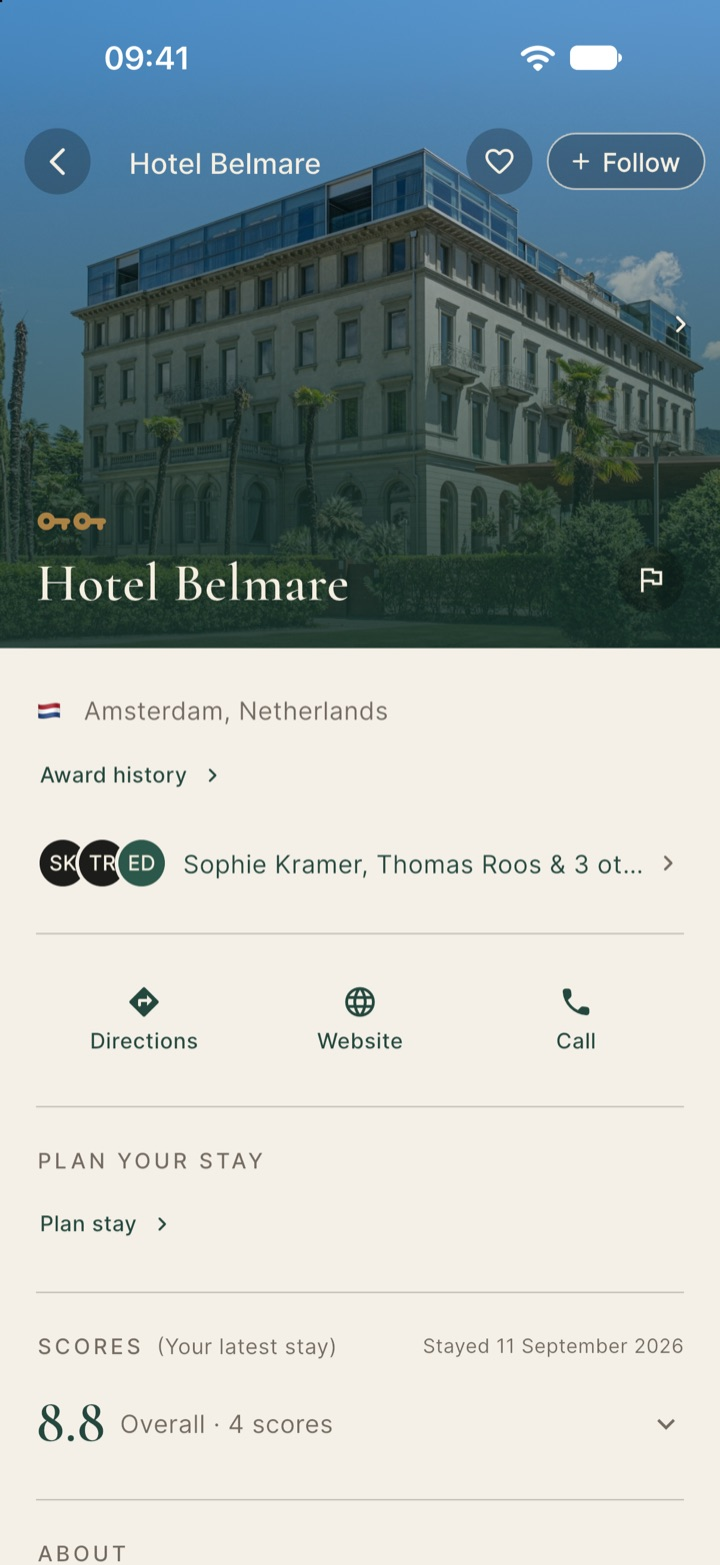
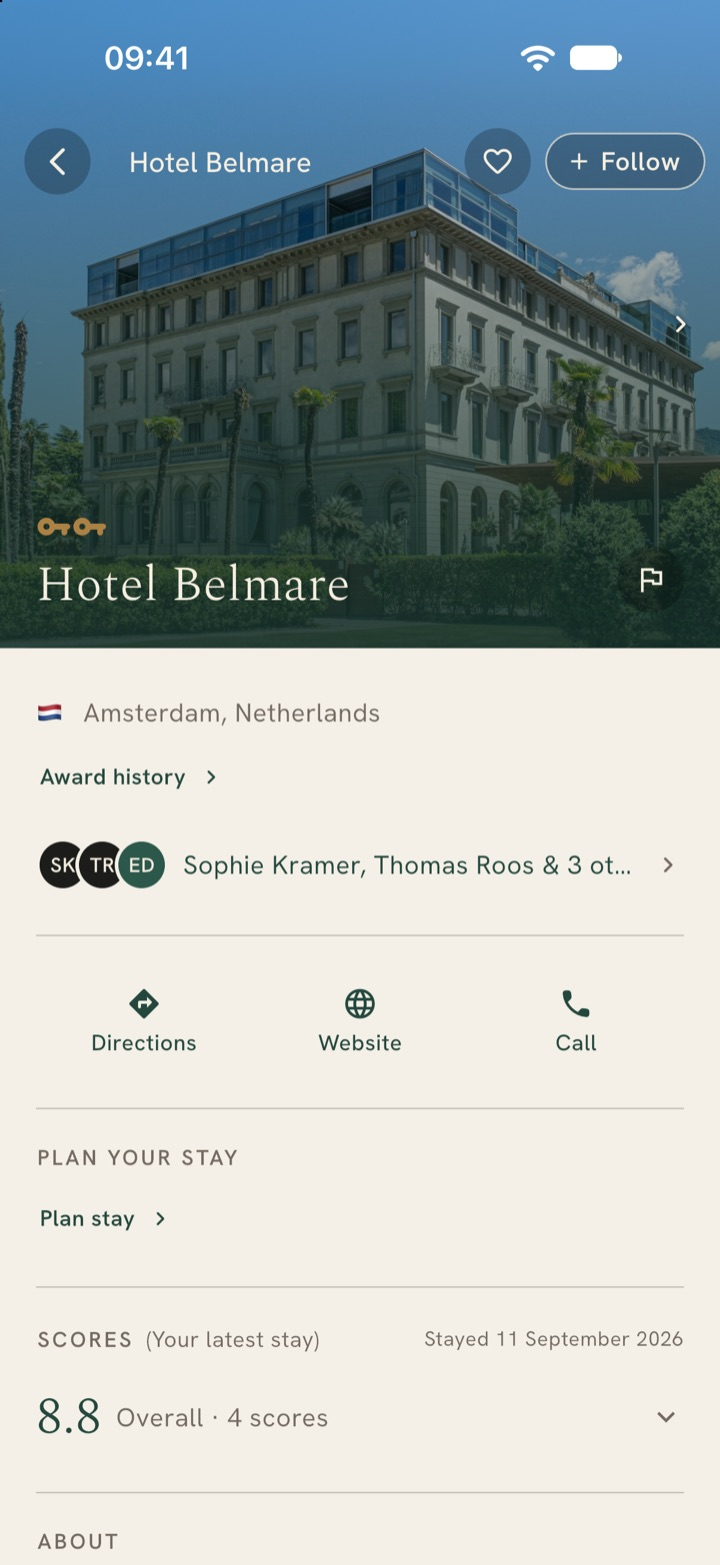
Fresh lookbook and venue guide screens from 1.7.1
All 29 screenshots captured again on the simulator against the local
lookbook seed, in the new typefaces and with the new stamp designs. The
seed now also sets up the venue manager and the event in review the
venue guide shows. Changelog entry for this and the typeface change.

diff --git a/site-next/public/lookbook.html b/site-next/public/lookbook.html
@@ -229,7 +229,7 @@
     </div>
     <div class="phones">
       <figure><img class="phone" src="lookbook/09_passport.jpg" width="720" height="1565" loading="lazy" alt="Leather passport cover with the Mantelier mark"><figcaption>The Passport.</figcaption></figure>
-      <figure><img class="phone" src="lookbook/15_stamps.jpg" width="720" height="1565" loading="lazy" alt="Passport page with three overlapping venue stamps"><figcaption>A stamp for each place.</figcaption></figure>
+      <figure><img class="phone" src="lookbook/15_stamps.jpg" width="720" height="1565" loading="lazy" alt="Passport page with four venue stamps in different designs"><figcaption>A stamp for each place.</figcaption></figure>
       <figure><img class="phone" src="lookbook/11_ranking.jpg" width="720" height="1565" loading="lazy" alt="A member's personal ranking of restaurants with photos and scores"><figcaption>A member's own ranking.</figcaption></figure>
     </div>
   </div>

diff --git a/scripts/seed_lookbook.py b/scripts/seed_lookbook.py
@@ -82,5 +82,11 @@ o.append(f"insert into public.news_articles(id,title,body,image_url,status,publi
 o.append(f"insert into public.planned_trips(id,user_id,title,start_date,end_date,country_code,city) values('dddddddd-0000-0000-0000-000000000001','{uid}','A weekend in Amsterdam','2026-12-04','2026-12-07','NL','Amsterdam');")
 o.append(f"insert into public.planned_venues(user_id,entity_type,entity_id,trip_id,start_date) values('{uid}','hotel','{u('b1')}','dddddddd-0000-0000-0000-000000000001','2026-12-04'),('{uid}','restaurant','{u('a1')}','dddddddd-0000-0000-0000-000000000001','2026-12-05');")
 o.append(f"update public.planned_trip_destinations set city_id='{c['ams']}' where trip_id='dddddddd-0000-0000-0000-000000000001';")
+# The venue guide's manager screens (2026-11-21): the member manages Maison
+# Aurelle through an approved claim, and has one event of their own in review.
+o.append(f"insert into public.claims_restaurants(id,user_id,restaurant_id,status,reviewed_at,role,business_email,phone) values('ffffffff-0000-0000-0000-000000000001','{uid}','{u('a1')}','approved',now(),'owner','lena@maison-aurelle.example','+31 20 000 0000');")
+o.append(f"insert into public.venue_managers_restaurants(user_id,restaurant_id,claim_id) values('{uid}','{u('a1')}','ffffffff-0000-0000-0000-000000000001');")
+o.append(f"insert into public.events(id,name,description,event_type,status,moderation_status,country_code,city,timezone,start_date,end_date,start_time,end_time,submitted_by,submitted_at,admission_type,announcement_status) values('eeeeeeee-0000-0000-0000-000000000009','Grower Champagne night with Daan Hofman',{q('Six small grower houses, poured by our sommelier, with a menu built around them.')},'dinner','upcoming','submitted','NL','Amsterdam','Europe/Amsterdam','2027-03-06','2027-03-06','19:00','22:30','{uid}',now(),'paid','official');")
+o.append(f"insert into public.event_restaurants(event_id,restaurant_id,is_host,is_venue) values('eeeeeeee-0000-0000-0000-000000000009','{u('a1')}',true,true);")
 o.append("commit;")
 print("\n".join(o))

diff --git a/docs/Plannnig/CHANGELOG.md b/docs/Plannnig/CHANGELOG.md
@@ -9,6 +9,12 @@ The format follows Keep a Changelog.
 ## Unreleased
 
 ### Changed
+- **The site in the app's typefaces, and fresh screens in the lookbook and venue guide** (product owner, 2026-11-21, after the new site went live: "Oke kunnen dat wat openstaat nu oppakken?"). Both were left open when mantelier.app moved to `site-next/`. Branch `claude/website-update-790380`; not merged, so not live: merging into `main` publishes it.
+  - **Typefaces:** Spectral and Hanken Grotesk on every page, the static ones in `site-next/public/` included, in place of Cormorant Garamond and IBM Plex Sans and Mono, as the app did in 1.6.1. The letter-spaced labels that were IBM Plex Mono are Hanken Grotesk too, since the app has no monospace face.
+  - **Screens:** all 17 lookbook and 12 venue guide screenshots captured again from 1.7.1 (38) on an iPhone 18 Pro simulator against a local stack loaded with `scripts/seed_lookbook.py`, same frames and same invented venues as before, so they show the new typefaces, the four new stamp designs and Cellar in the Passport tabs. The stamp picture's alt text now says four stamps in different designs. Two screenshots no page used (`lookbook/10_passport_page.jpg`, `venue-guide/03_claim_details.jpg`) are removed.
+  - `scripts/seed_lookbook.py` now also makes the member the manager of Maison Aurelle (an approved claim plus the `venue_managers_restaurants` row) and gives them one event in review, which the venue guide's manager screens need and which had been set up by hand last time. Run on a freshly reset local stack: one manager row, one submitted event, four restaurants. `docs/Design/LOOKBOOK.md` names the new paths and the capture.
+  - **Near miss:** the claim form for Noordtij is filled in for the picture but never submitted; the seed's own claim is the only one in the local database. Nothing touched production.
+
 - **The new site becomes mantelier.app, with the app's features up to 1.7** (product owner, 2026-11-21: "Kan je in een aparte sessie de website updaten?"; then "We kunnen ook de nieuwe website pakken, daar wel gewoon alles al opzetten tot 1.7"; then "Ja, bouw het zo, inclusief automatisch publiceren naar mantelier.app elke drie uur"). The old `site/` still said the app was coming, asked for a waiting list and listed events that had passed, while Mantelier 1.6.0 has been on the App Store since 2026-11-20 (id6806217056). Branch `claude/website-update-790380`; **not merged and not live**: merging it into `main` is what publishes it.
   - **Launch switches** (`site-next/src/config.ts`): `HIDDEN = false`, so pages carry a canonical link instead of noindex; `public/_headers` no longer sends `X-Robots-Tag: noindex` and `robots.txt` allows everything; `APP_STORE_URL` is the store link without a country, so every "Get the app" and "in the app" call to action now links to the App Store.
   - **The static pages moved into `site-next/public/`** as they were: Privacy, Terms, Support, Hosts, Journey, the venue guide and the lookbook with their screenshots, `auth/` (the confirm and reset links the app sends), `.well-known/apple-app-site-association` (still served as JSON), `brand/`, `_redirects` (`/auth/confirmed`) and the share image. The footer links are relative now, with The app and The journey added.

diff --git a/docs/Design/LOOKBOOK.md b/docs/Design/LOOKBOOK.md
@@ -1,6 +1,8 @@
 # Lookbook
 
-`site/lookbook.html`, for showing venues how the app looks once it is filled.
+`site-next/public/lookbook.html` (until 2026-11-21 `site/lookbook.html`), for
+showing venues how the app looks once it is filled. The venue guide
+(`site-next/public/venue-guide.html`) uses the same invented venue.
 Reachable by link only (`noindex`, no link from the site).
 
 ## How the screens are made
@@ -9,7 +11,15 @@ Real simulator screenshots, never redrawn, so the page cannot show something
 the app does not do. Build against a local stack, load `scripts/seed_lookbook.py`,
 override the status bar with `xcrun simctl status_bar`, capture with
 `xcrun simctl io <device> screenshot`, and resize to 720 px wide JPEG in
-`site/lookbook/`. The screens need re-capturing when the app's look changes.
+`site-next/public/lookbook/` and `site-next/public/venue-guide/`. The screens
+need re-capturing when the app's look changes.
+
+Last captured 2026-11-21 from 1.7.1 (38), on an iPhone 18 Pro simulator
+(1206 px wide, same shape as the 720 × 1565 frames), after the switch to
+Spectral and Hanken Grotesk. The seed now also makes the member the manager
+of Maison Aurelle and gives them one event in review, for the venue guide.
+Sign in, never sign up: the seed expects an existing local auth user. The
+claim form for Noordtij is filled in but never submitted.
 
 ## What is invented
 
